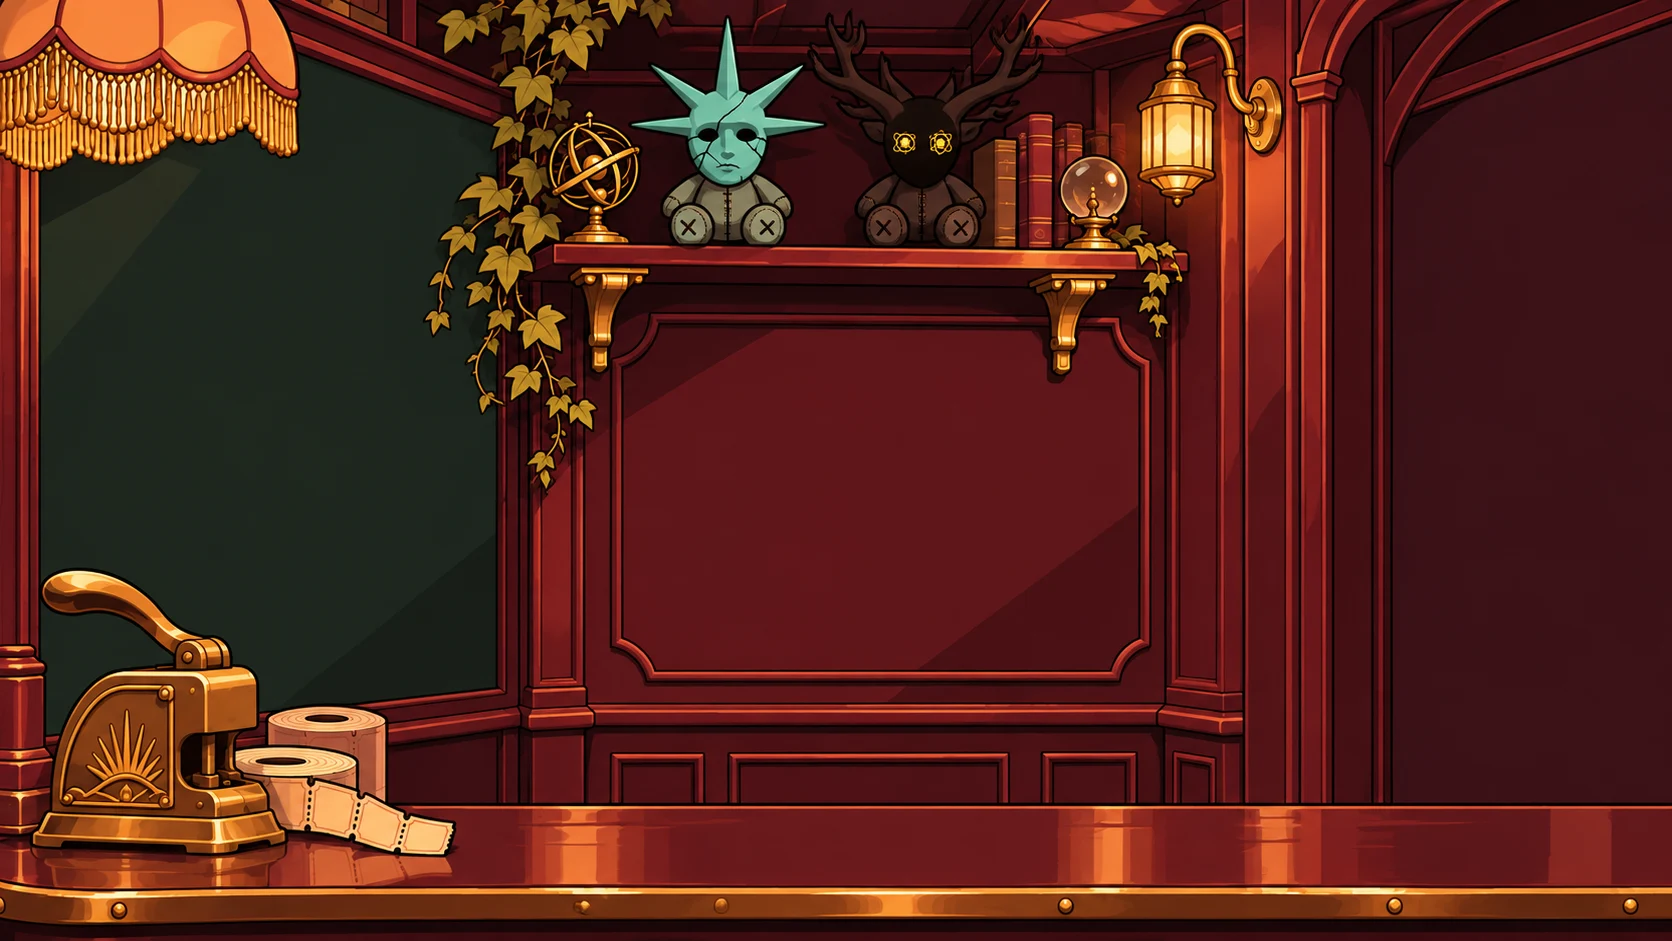
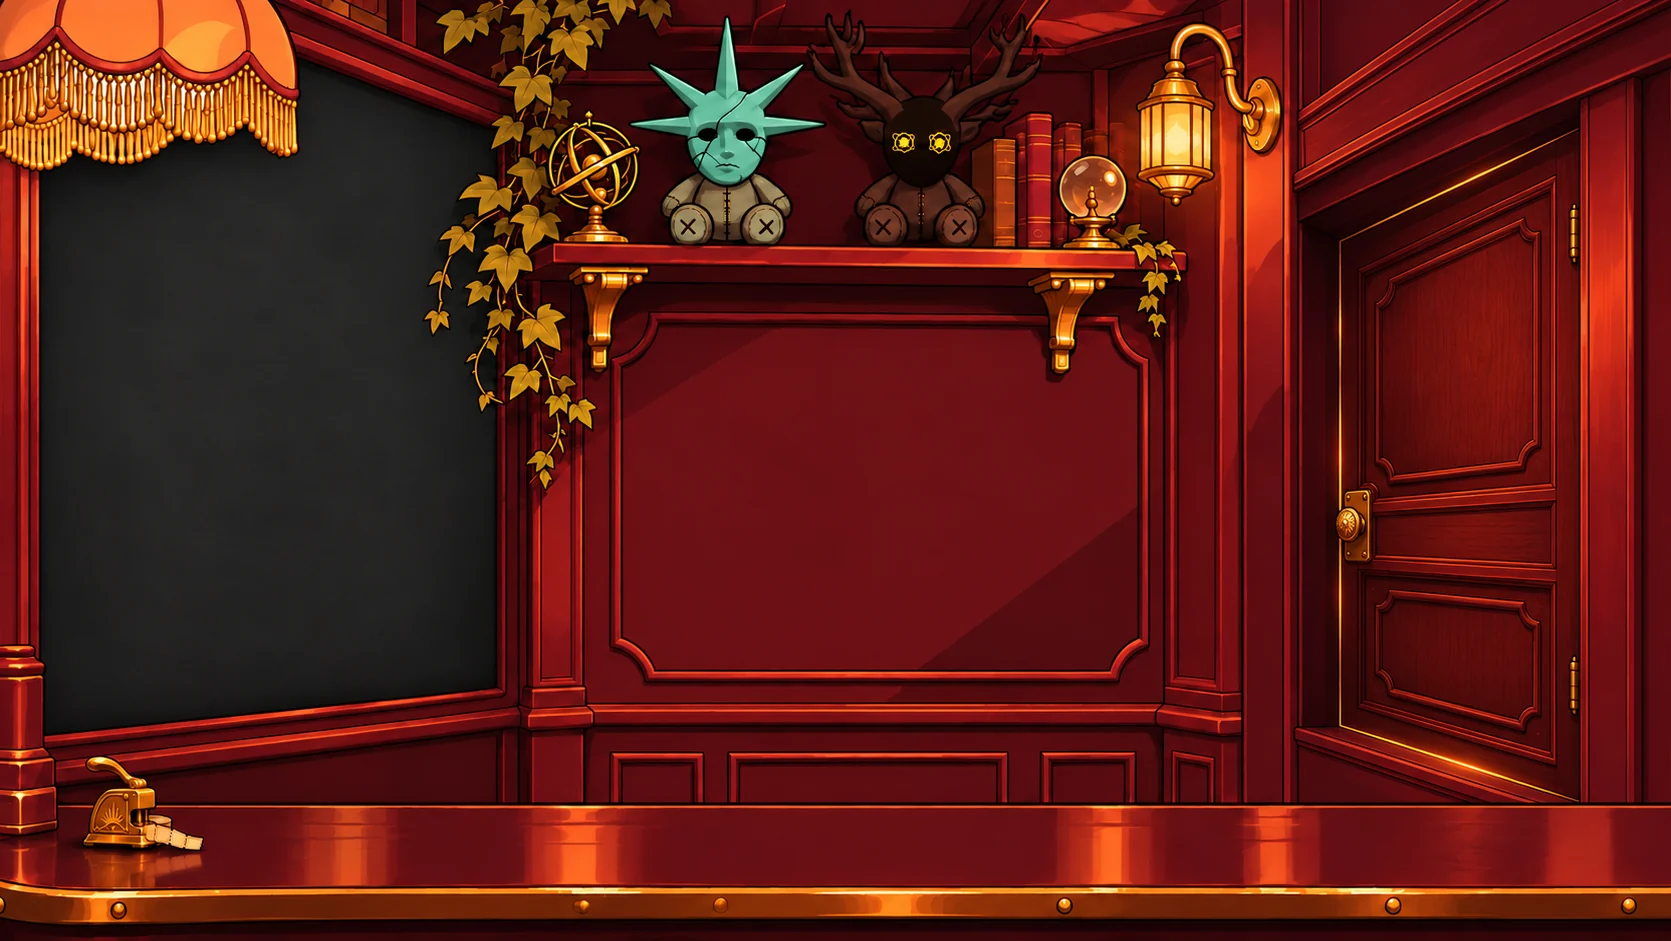
Recompor a bilheteria e alinhar a porta à perspectiva da parede lateral

diff --git a/src/components/EditorIntro/EditorIntro.css b/src/components/EditorIntro/EditorIntro.css
@@ -1,27 +1,34 @@
-.ticket-room{position:relative;width:100vw;margin-left:calc(50% - 50vw);overflow:hidden;background:#251515;isolation:isolate;scroll-margin-top:90px}
-.ticket-anchor{position:absolute;top:0;scroll-margin-top:90px}
-.ticket-set{position:relative;height:clamp(540px,55vw,850px);background:url('/images/doorman/booth.webp') center/100% 100% no-repeat;transform-origin:88% 62%}
-.ticket-bio{position:absolute;left:6%;top:25%;width:min(30%,405px);color:#ffeace;text-shadow:0 2px 4px #100809;background:radial-gradient(ellipse,#181719cc,transparent 80%)}
-.ticket-bio p:first-child{font:italic 700 clamp(1.4rem,3vw,3rem) Georgia,serif;color:#ffdc96;margin:0}
-.editor-site .ticket-bio h1{font:700 clamp(2.7rem,5vw,5rem)/.96 Georgia,serif;color:#fff1ce;margin:.25em 0}
-.ticket-bio strong{font:.75rem monospace;letter-spacing:.14em}.ticket-bio p:last-child{font-size:clamp(.86rem,1.2vw,1.1rem);max-width:34ch;margin:1rem 0}
-.ticket-door{position:absolute;right:4%;bottom:15%;height:52%;width:13%;perspective:650px;background:#ffa33c;border:3px solid #8a562e;box-shadow:0 0 9px 2px #ff8a23,inset 0 0 26px #ffe4a6}
-.ticket-door i{display:block;height:100%;position:relative;margin:2px;background:repeating-linear-gradient(92deg,#452526 0 10px,#502d29 11px 13px);border:7px ridge #602f28;transform-origin:right}
-.ticket-door i:before{content:'';position:absolute;inset:8% 12%;border:4px ridge #754731}
-.ticket-door i:after{content:'';position:absolute;left:8%;top:55%;width:10px;height:10px;border-radius:50%;background:#e5b364}
-.ticket-host,.ticket-guide{position:absolute;bottom:14.6%;left:43%;width:36%;height:58%;object-fit:contain;object-position:bottom;filter:drop-shadow(4px 3px 2px #23122088)}
-.ticket-guide{opacity:0}
-.ticket-balloon{position:absolute;left:39%;top:33%;max-width:18ch;background:#fff0d2;border:2px solid #271522;color:#311d26;border-radius:16px 16px 2px 16px;padding:.6rem .9rem;font-weight:700;font-size:clamp(.75rem,1.1vw,1rem)}
-.ticket-cat {
-  --crossing: 16s;
-  --stride: 1s;
-  position: absolute;
-  bottom: 10%;
-  left: 8%;
-  width: 11%;
-  pointer-events: none;
-  animation: booth-cross var(--crossing) linear infinite alternate;
+
+.ticket-room {
+  width:100vw; margin-left:calc(50% - 50vw); position:relative; isolation:isolate;
+  overflow:hidden; background:#271719; scroll-margin-top:90px;
 }
+.ticket-anchor {position:absolute;top:0;scroll-margin-top:90px}
+.ticket-set {
+  position:relative; height:clamp(440px,48vw,850px);
+  background:url('/images/doorman/booth.webp') center / 100% 100% no-repeat;
+  transform-origin:89% 60%; animation:cinema-arrive .9s ease-out both;
+}
+@keyframes cinema-arrive {from{filter:brightness(.55)}to{filter:brightness(1)}}
+.ticket-bio {
+  position:absolute;z-index:2;left:4.4%;top:clamp(95px,10.5vw,185px);width:21%;
+  color:#f4ebd5; text-shadow:0 1px 1px #151411;
+}
+.ticket-bio p:first-child {color:#f1ce83;font:italic 700 clamp(18px,2vw,36px)/1.1 Georgia,serif;margin:0;}
+.editor-site .ticket-bio h1 {color:#f5edd5;font:700 clamp(30px,3.65vw,68px)/.99 Georgia,serif;margin:.2em 0;}
+.ticket-bio strong {font:700 clamp(10px,.73vw,14px)/1.3 monospace;letter-spacing:.08em;}
+.ticket-bio p:last-child {font-size:clamp(13px,.98vw,18px);line-height:1.4;max-width:31ch;margin:.55em 0 0;}
+.ticket-host,.ticket-guide {position:absolute;left:50%;bottom:12%;height:59%;width:auto;transform:translateX(-50%);pointer-events:none;}
+.ticket-guide {opacity:0;}
+.counter-edge {position:absolute;inset:0;background:inherit;clip-path:inset(85.4% 0 0);pointer-events:none;}
+.ticket-balloon {
+  position:absolute;left:calc(50% + min(7vw,119px));top:36%;max-width:min(17%,22ch);margin:0;
+  padding:.55em .8em;border:2px solid #301d23;border-radius:14px 14px 14px 2px;
+  background:#fff1d4;color:#301d23;font-weight:700;line-height:1.3;font-size:clamp(13px,1.05vw,19px);
+}
+.ticket-balloon::after {content:'';position:absolute;left:-8px;bottom:5px;width:12px;height:10px;background:#fff1d4;border-left:2px solid #301d23;border-bottom:2px solid #301d23;transform:skewY(-25deg);}
+.ticket-cat {--crossing:14s;--stride:.84s;position:absolute;bottom:7.5%;width:11%;left:17%;pointer-events:none;animation:booth-cross var(--crossing) linear infinite alternate;}
+@keyframes booth-cross {from{left:17%}to{left:76%}}
 .ava-walker {
   display: block;
   aspect-ratio: 288 / 180;
@@ -29,26 +36,31 @@
   animation: booth-stride var(--stride) steps(8, jump-none) infinite,
              booth-turn calc(var(--crossing) * 2) step-end infinite;
 }
-@keyframes booth-cross { from { left: 8%; } to { left: 79%; } }
 @keyframes booth-stride { from { background-position-x: 0%; } to { background-position-x: 100%; } }
 @keyframes booth-turn { 0%, 100% { transform: scaleX(1); } 50% { transform: scaleX(-1); } }
-.editor-site .ticket-stub{position:absolute;left:43%;bottom:3.5%;display:inline-flex;gap:1.1em;align-items:center;padding:.65em 1em;color:#321920;background:#ffe6aa;border:3px double #784422;text-decoration:none;font-weight:800;box-shadow:4px 4px #2c1318;transform:rotate(-3deg)}
-.ticket-stub b{border-left:2px dashed #805126;padding-left:1em}
-.ticket-room[data-entering=true] .ticket-set{animation:booth-pass 1.6s both}
-.ticket-room[data-entering=true] .ticket-door i{transform:rotateY(88deg);transition:transform .65s .4s}
-.ticket-room[data-entering=true] .ticket-host,.ticket-room[data-entering=true] .ticket-balloon{opacity:0}
-.ticket-room[data-entering=true] .ticket-guide{animation:booth-guide 1s forwards}
-@keyframes booth-guide{0%{opacity:1}80%,100%{opacity:1;transform:translateX(60%) scale(.7);transform-origin:bottom right}}
-@keyframes booth-pass{0%,42%{transform:scale(1)}100%{transform:scale(10)}}
+
+.booth-replies {display:flex;justify-content:center;flex-wrap:wrap;gap:.65rem;padding:.65rem 3%;background:#251819;border-top:1px solid #a57a49;}
+.ticket-room[data-entering=true] .ticket-host,.ticket-room[data-entering=true] .ticket-balloon,.ticket-room[data-entering=true] .ticket-bio {opacity:0}
+.ticket-room[data-entering=true] .ticket-guide {animation:guide-to-door 1.5s both;}
+.ticket-room[data-entering=true] .ticket-set {animation:follow-usher 2.1s both;}
+@keyframes guide-to-door {0%{opacity:0}15%{opacity:1}85%{opacity:1}100%{left:89%;bottom:16%;height:39%;opacity:0}}
+@keyframes follow-usher {0%,50%{transform:scale(1)}100%{transform:scale(6);filter:brightness(1.55)}}
+@media(max-width:700px) {
+  .ticket-bio {position:relative;inset:auto;width:auto;margin:0;padding:1rem 7%;color:#f4ebd5;
+    background:linear-gradient(105deg,#242721,#20201f);border:6px ridge #71432b;}
+  .editor-site .ticket-bio h1 {font-size:clamp(30px,7vw,45px);margin:.12em 0;}
+  .ticket-bio h1 br {display:none;}
+  .ticket-bio p:last-child {max-width:52ch;}
+  .ticket-set {height:clamp(290px,58vw,405px);background-size:145% 100%;background-position:right center;transform-origin:84% 60%;}
+  .ticket-host,.ticket-guide {left:32%;height:58%;}
+  .ticket-balloon {left:calc(32% + 8vw);top:37%;max-width:26%;font-size:clamp(12px,2.9vw,15px);}
+  .ticket-cat {width:18%;--crossing:9s}
+  .booth-replies {gap:.4rem;}
+}
+@media(prefers-reduced-motion:reduce){.ticket-room *{animation:none!important;transition:none!important}}
 .cinema-filter{display:flex;gap:.6rem;flex-wrap:wrap;margin:1.5rem 0}
 .cinema-filter button{min-height:42px;border:1px solid #dbbc86;color:#ffecc9;background:#301c29;padding:.45rem 1rem;cursor:pointer}
 .cinema-filter button[aria-pressed=true]{background:#ffe3a3;color:#381722}
-@media(max-width:700px){.ticket-set{height:clamp(610px,110vw,740px);background-size:150% 100%;background-position:55% center}.ticket-bio{top:20%;left:4%;width:45%;padding:8px;background:#17151bdb;border-radius:3px}.editor-site .ticket-bio h1{font-size:clamp(1.9rem,7vw,3.2rem)}.ticket-bio p:last-child{line-height:1.45}.ticket-host,.ticket-guide{left:42%;width:44%;height:42%}.ticket-balloon{left:51%;top:37%;max-width:40%}.ticket-door{height:42%;width:15%;right:2%}.ticket-cat{width:19%;--crossing:9s}.editor-site .ticket-stub{left:28%}}
-@media(prefers-reduced-motion:reduce){.ticket-room *{animation:none!important;transition:none!important}}
-
-.ticket-set{animation:cinema-arrive 1.1s ease-out both}
-@keyframes cinema-arrive{from{transform:scale(1.09);filter:brightness(.3)}to{transform:scale(1);filter:brightness(1)}}
-.booth-replies{position:absolute;bottom:3%;left:3%;right:3%;display:flex;justify-content:center;gap:.8rem;flex-wrap:wrap}
 .editor-site .booth-replies a,.letter-seal{padding:.75rem 1rem;color:#331b1e;background:#ffe1a1;border:3px double #88532b;box-shadow:3px 4px #2d1315;text-decoration:none;font-weight:750;cursor:pointer}
 .booth-replies a:hover,.booth-replies a:focus-visible{transform:translateY(-3px)}
 .editor-site .back-booth{display:inline-block;margin:1rem 0;padding:.5rem .9rem;border:1px solid #ba9868;color:#ffe2a7}
@@ -59,26 +71,11 @@
 .portal-exit img{height:60vh;animation:usher-push 1s both}
 @keyframes usher-push{0%{transform:translateX(-20%) scale(.85)}70%{transform:scale(1.4)}100%{transform:translateX(-100%) scale(2);opacity:0}}
 .editor-site .portal-exit a{position:absolute;bottom:15%;padding:.8rem;background:#111e33;color:white}
-@media(max-width:700px){.booth-replies{gap:.35rem;bottom:1%}.editor-site .booth-replies a{font-size:.75rem;padding:.48rem}.ticket-set{min-height:650px}}
 @media(prefers-reduced-motion:reduce){.portal-exit *,.ticket-set{animation:none!important}}
 
-/* Use the painted counter as a foreground plate in the same perspective. */
-.counter-edge { position:absolute; inset:0; pointer-events:none; background:inherit; clip-path:inset(83% 0 0); }
-.ticket-set .ticket-host,.ticket-set .ticket-guide { height:74%; bottom:4%; width:28%; left:48%; transform-origin:50% 100%; }
-.ticket-room[data-called=false] .ticket-host { transform:translateX(20%) scale(.78); filter:brightness(.78); }
-.ticket-room[data-called=true] .ticket-host { animation:approach-counter .85s ease-out both; }
-@keyframes approach-counter { from {transform:translateX(20%) scale(.78);filter:brightness(.78)} 58% {transform:translateX(7%) translateY(-1%) scale(.93)} to {transform:none} }
-.ticket-room .ticket-balloon {left:35%;top:15%;max-width:22ch;}
-.ticket-room[data-entering=true] .ticket-balloon {opacity:1;}
-.ticket-room[data-entering=true] .ticket-guide {animation:cross-threshold 1.55s ease-in both;}
-.ticket-room[data-entering=true] .ticket-set {animation:follow-usher 2.1s both;}
-.ticket-room[data-entering=true] .booth-replies {visibility:hidden;}
-@keyframes cross-threshold {0% {opacity:0} 12% {opacity:1} 44% {transform:translate(38%,-3%) scale(.91)} 82% {opacity:1} 100% {opacity:0;transform:translate(97%,-14%) scale(.52)} }
-@keyframes follow-usher {0%,50% {transform:scale(1)} 75% {filter:brightness(1)} 100% {transform:scale(6);filter:brightness(1.7)} }
 .desk-bell {display:inline-flex;align-items:center;gap:.75em;padding:.6em 1.1em;background:#271921;color:#ffe0a2;border:2px solid #c19351;border-radius:3px;box-shadow:0 4px #180d10;font:inherit;font-weight:700;cursor:pointer;}
 .desk-bell i {width:1.7em;height:.9em;border-radius:100% 100% 10% 10%;background:linear-gradient(110deg,#835231,#ffde91,#956034);border-bottom:3px solid #ca995b;}
 .desk-bell:hover i,.desk-bell:focus-visible i {transform:rotate(-9deg)}
 .scene-contact .cinema-speaker img {height:clamp(220px,34vw,440px);width:100%;object-fit:contain;object-position:bottom;}
 .scene-contact button.hand-letter {display:block;border:0;background:transparent;padding:0;width:100%;cursor:pointer;}
 .hand-letter:hover img,.hand-letter:focus-visible img {transform:scale(1.035);transform-origin:bottom;}
-@media(max-width:700px){.ticket-set .ticket-host,.ticket-set .ticket-guide {left:46%;width:42%;height:58%;bottom:8%;}.ticket-room .ticket-balloon {left:51%;top:24%;max-width:46%;}.counter-edge{clip-path:inset(84% 0 0)}}

diff --git a/src/pages/VideoEditing.jsx b/src/pages/VideoEditing.jsx
@@ -119,7 +119,7 @@ export default function VideoEditing() {
       <div className="studio-scene scene-process"><div><SectionHeading number="04" label="Ilha de edição"><span id="cut-process-title">DO BRUTO<br /><em>AO CORTE FINAL.</em></span></SectionHeading></div><div className="cinema-speaker"><p className="studio-dialogue"><small>Doorman</small>Olha, é nesta mesa que o Sab monta os vídeos. Puxa uma cadeira!</p><img src="/images/doorman/process.webp" alt="" loading="lazy" /></div></div>
       <ol className="cut-process"><li><span>01</span><h3>A gente conversa.</h3><p>Você me conta sobre o canal, manda suas referências e o material. Alinhamos formato, estilo e prazo.</p></li><li><span>02</span><h3>Eu entro na timeline.</h3><p>Seleciono os momentos, construo o ritmo e combino imagem, som e texto com a ideia que definimos.</p></li><li><span>03</span><h3>Ajustamos juntos.</h3><p>Você vê o resultado, traz seu feedback e refinamos a edição até a entrega no formato combinado.</p></li></ol>
     </section></>}
-    {room === 'letter' && <><div className="cut-contact-intro" id="edicao-convite"><div className="studio-scene scene-contact"><div><p className="cut-label">05 / Contato</p><h2>UM CONVITE<br /><em>PRA VOCÊ.</em></h2></div><div className="cinema-speaker"><p className="studio-dialogue"><small>Doorman</small>Esta carta é pra você. Abra e escolha como quer falar com o Sab.</p><button type="button" className="hand-letter" aria-label={letterOpen ? 'Fechar carta' : 'Receber a carta'} aria-expanded={letterOpen} onClick={() => setLetterOpen(!letterOpen)}><img src="/images/doorman/deliver.webp" alt="" /></button></div></div></div>
+    {room === 'letter' && <><div className="cut-contact-intro" id="edicao-convite"><div className="studio-scene scene-contact"><div><p className="cut-label">05 / Contato</p><h2>UM CONVITE<br /><em>PRA VOCÊ.</em></h2></div><div className="cinema-speaker"><p className="studio-dialogue"><small>Doorman</small>Esta carta é pra você. Abra e escolha como quer falar com o Sab.</p><button type="button" className="hand-letter" aria-label={letterOpen ? 'Fechar carta' : 'Receber a carta'} aria-expanded={letterOpen} onClick={() => setLetterOpen(!letterOpen)}><img src="/images/doorman/contact.webp" alt="" /></button></div></div></div>
     <button type="button" className="letter-seal" aria-expanded={letterOpen} onClick={() => setLetterOpen(!letterOpen)}>{letterOpen ? 'Fechar carta' : 'Receber a carta'}</button>
     {letterOpen && <Contact editing onExit={leaveCinema} />}
     {exitLink && <div className="portal-exit" role="status"><div className="blue-threshold" /><img src="/images/doorman/point.webp" alt="" /><a href={exitLink}>Continuar para o contato ↗</a></div>}

diff --git a/src/components/EditorIntro/EditorIntro.jsx b/src/components/EditorIntro/EditorIntro.jsx
@@ -26,26 +26,26 @@ export default function EditorIntro() {
   }
   return <section id="edicao" className="ticket-room" aria-labelledby="booth-title" data-entering={entering} data-called={called}>
     <div id="edicao-sobre" className="ticket-anchor" />
-    <div className="ticket-set">
-      <div className="ticket-door" aria-hidden="true"><i /></div>
-      <img className="ticket-host" src="/images/doorman/salute.webp" alt="Doorman na bilheteria" />
-      <img className="ticket-guide" src="/images/doorman/escort.webp" alt="" />
-      <div className="counter-edge" aria-hidden="true" />
       <article className="ticket-bio">
-        <p>Cine Sab</p><h1 id="booth-title">Matheus<br/>Tahan Sab</h1><strong>EDITOR DE VÍDEO</strong>
+        <p>Cine Sab</p><h1 id="booth-title">Matheus<br/> Tahan Sab</h1><strong>EDITOR DE VÍDEO</strong>
         <p>Edito gameplays, vídeos longos e shorts no DaVinci Resolve, com humor e o ritmo do seu canal.</p>
       </article>
+    <div className="ticket-set">
+      <img className="ticket-host" src="/images/doorman/welcome.webp" alt="Doorman na bilheteria" />
+      <img className="ticket-guide" src="/images/doorman/turn.webp" alt="" />
+      <div className="counter-edge" aria-hidden="true" />
+
       <p className="ticket-balloon" aria-live="polite">{destination === '#edicao-trabalhos' ? 'Seu ingresso. A sessão já vai começar!'
         : destination === '#edicao-servicos' ? 'Por aqui. Vou abrir o escritório.'
         : destination === '#edicao-contato' ? 'Tenho uma carta para você. Me acompanhe.'
         : called ? 'Aonde eu te levo hoje?' : 'Um visitante! Pode tocar a campainha.'}</p>
       <div className="ticket-cat" aria-hidden="true"><span className="ava-walker" /></div>
+    </div>
       <nav className="booth-replies" aria-label="Responder ao Doorman">
         {!called ? <button type="button" className="desk-bell" onClick={() => setCalled(true)}><i aria-hidden="true" />Tocar a campainha</button> : <>
         <a ref={firstReply} href="#edicao-trabalhos" onClick={enterCinema}>Quero assistir aos vídeos</a>
         <a href="#edicao-servicos" onClick={enterCinema}>Quero conhecer os serviços</a>
         <a href="#edicao-contato" onClick={enterCinema}>Quero falar com o Sab</a></>}
       </nav>
-    </div>
   </section>;
 }
